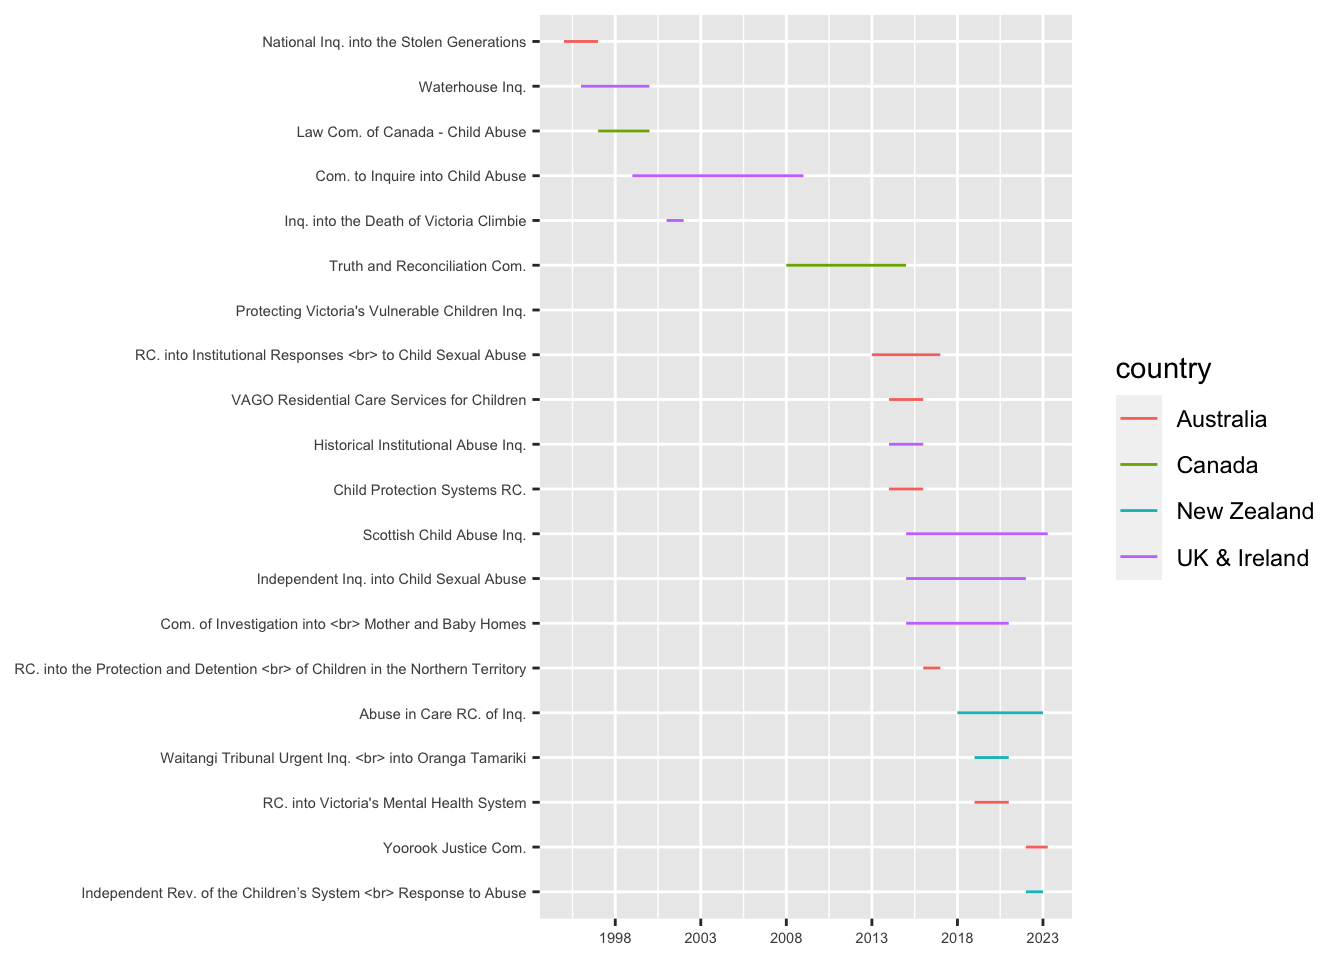
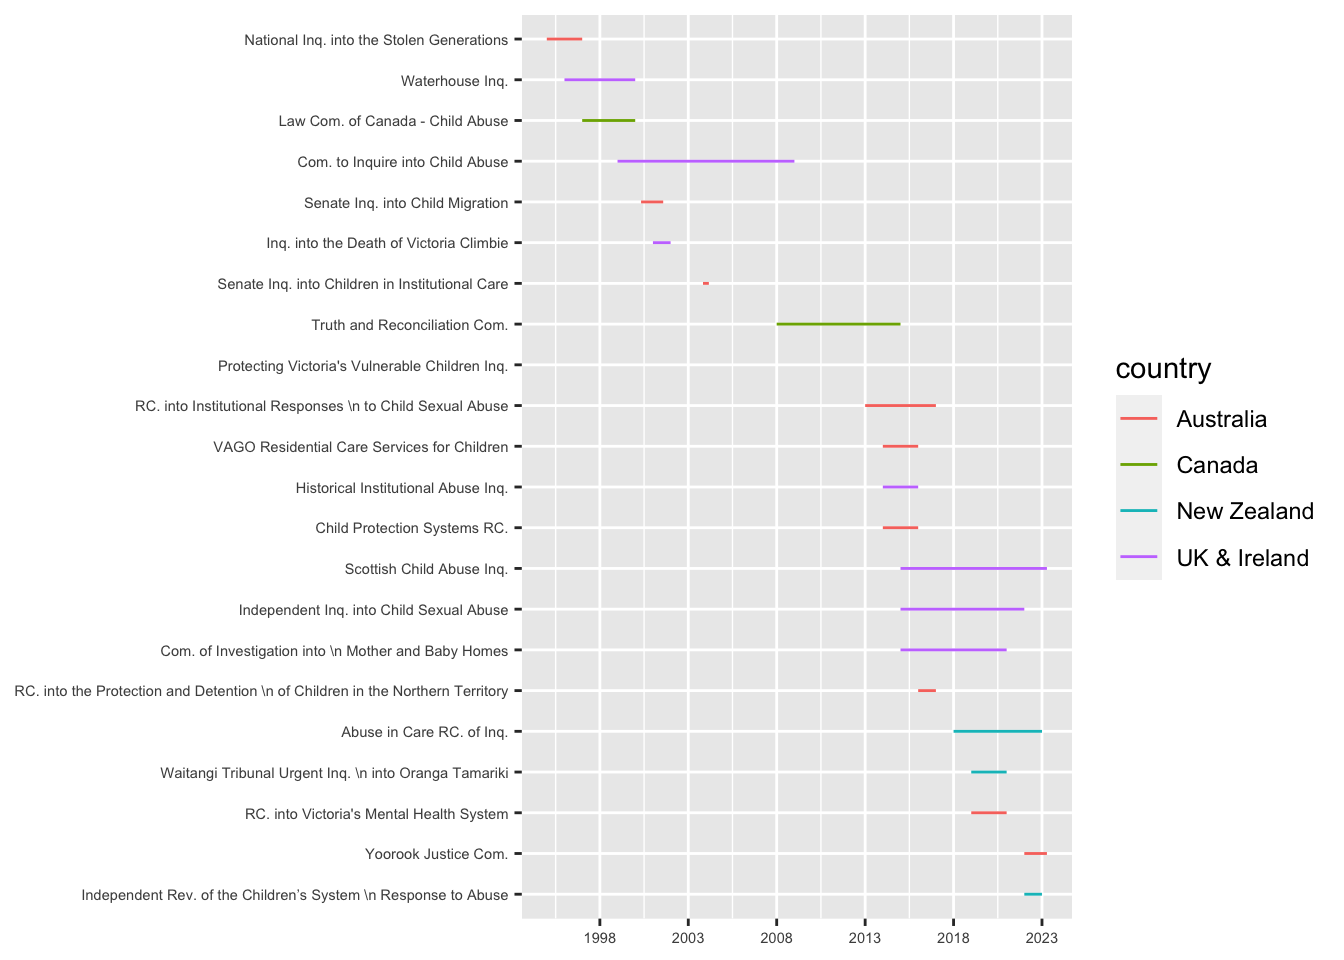
Splitting up timelines

diff --git a/commissionsviz.html b/commissionsviz.html
@@ -137,26 +137,77 @@ code span.wa { color: #60a0b0; font-weight: bold; font-style: italic; } /* Warni
 <div class="sourceCode cell-code" id="cb1"><pre class="sourceCode r code-with-copy"><code class="sourceCode r"><span id="cb1-1"><a href="#cb1-1" aria-hidden="true" tabindex="-1"></a>commissions <span class="ot">&lt;-</span> <span class="fu">read.csv</span>(<span class="st">"commissionsdatabaseggplot.csv"</span>, <span class="at">stringsAsFactors =</span> F)</span>
 <span id="cb1-2"><a href="#cb1-2" aria-hidden="true" tabindex="-1"></a>commissions<span class="sc">$</span>start <span class="ot">&lt;-</span> <span class="fu">as.Date</span>(commissions<span class="sc">$</span>start, <span class="at">format=</span><span class="st">"%d/%m/%Y"</span>)</span>
 <span id="cb1-3"><a href="#cb1-3" aria-hidden="true" tabindex="-1"></a>commissions<span class="sc">$</span>end <span class="ot">&lt;-</span> <span class="fu">as.Date</span>(commissions<span class="sc">$</span>end,<span class="at">format=</span><span class="st">"%d/%m/%Y"</span>)</span>
-<span id="cb1-4"><a href="#cb1-4" aria-hidden="true" tabindex="-1"></a></span>
-<span id="cb1-5"><a href="#cb1-5" aria-hidden="true" tabindex="-1"></a>p <span class="ot">&lt;-</span> <span class="fu">ggplot</span>(commissions) <span class="sc">+</span></span>
-<span id="cb1-6"><a href="#cb1-6" aria-hidden="true" tabindex="-1"></a>      <span class="fu">geom_linerange</span>(<span class="fu">aes</span>(<span class="at">y =</span> <span class="fu">reorder</span>(title,<span class="fu">desc</span>(start)), </span>
-<span id="cb1-7"><a href="#cb1-7" aria-hidden="true" tabindex="-1"></a>                         <span class="at">xmin =</span> start,</span>
-<span id="cb1-8"><a href="#cb1-8" aria-hidden="true" tabindex="-1"></a>                         <span class="at">xmax =</span> end,</span>
-<span id="cb1-9"><a href="#cb1-9" aria-hidden="true" tabindex="-1"></a>                         <span class="at">colour =</span> country)</span>
-<span id="cb1-10"><a href="#cb1-10" aria-hidden="true" tabindex="-1"></a>                     )<span class="sc">+</span></span>
-<span id="cb1-11"><a href="#cb1-11" aria-hidden="true" tabindex="-1"></a>      <span class="fu">labs</span>(<span class="at">y=</span><span class="cn">NULL</span>)<span class="sc">+</span></span>
-<span id="cb1-12"><a href="#cb1-12" aria-hidden="true" tabindex="-1"></a>      <span class="fu">scale_x_date</span>(<span class="at">date_breaks=</span><span class="st">"5 years"</span>,</span>
-<span id="cb1-13"><a href="#cb1-13" aria-hidden="true" tabindex="-1"></a>                   <span class="at">date_labels=</span><span class="st">"%Y"</span>,</span>
-<span id="cb1-14"><a href="#cb1-14" aria-hidden="true" tabindex="-1"></a>                   <span class="at">limits=</span><span class="fu">c</span>(<span class="fu">as.Date</span>(<span class="st">"1/1/1995"</span>,</span>
-<span id="cb1-15"><a href="#cb1-15" aria-hidden="true" tabindex="-1"></a>                                    <span class="at">format=</span><span class="st">"%d/%m/%Y"</span>),<span class="fu">as.Date</span>(<span class="st">"14/4/2023"</span>,</span>
-<span id="cb1-16"><a href="#cb1-16" aria-hidden="true" tabindex="-1"></a>                                    <span class="at">format=</span><span class="st">"%d/%m/%Y"</span>))</span>
-<span id="cb1-17"><a href="#cb1-17" aria-hidden="true" tabindex="-1"></a>                   )<span class="sc">+</span></span>
-<span id="cb1-18"><a href="#cb1-18" aria-hidden="true" tabindex="-1"></a>      <span class="fu">theme</span>(</span>
-<span id="cb1-19"><a href="#cb1-19" aria-hidden="true" tabindex="-1"></a>      <span class="at">axis.text =</span> <span class="fu">element_text</span>(<span class="at">size =</span> <span class="fu">rel</span>(<span class="fl">0.5</span>))</span>
-<span id="cb1-20"><a href="#cb1-20" aria-hidden="true" tabindex="-1"></a>      )</span>
-<span id="cb1-21"><a href="#cb1-21" aria-hidden="true" tabindex="-1"></a>p</span></code><button title="Copy to Clipboard" class="code-copy-button"><i class="bi"></i></button></pre></div>
+<span id="cb1-4"><a href="#cb1-4" aria-hidden="true" tabindex="-1"></a>comm_int <span class="ot">&lt;-</span> commissions <span class="sc">%&gt;%</span></span>
+<span id="cb1-5"><a href="#cb1-5" aria-hidden="true" tabindex="-1"></a>  <span class="fu">filter</span>(country<span class="sc">!=</span><span class="st">"Australia"</span>)</span>
+<span id="cb1-6"><a href="#cb1-6" aria-hidden="true" tabindex="-1"></a>comm_ausfed <span class="ot">&lt;-</span> commissions <span class="sc">%&gt;%</span></span>
+<span id="cb1-7"><a href="#cb1-7" aria-hidden="true" tabindex="-1"></a>  <span class="fu">filter</span>(country<span class="sc">==</span><span class="st">"Australia"</span>,Notes<span class="sc">==</span><span class="st">"Federal"</span>)</span>
+<span id="cb1-8"><a href="#cb1-8" aria-hidden="true" tabindex="-1"></a></span>
+<span id="cb1-9"><a href="#cb1-9" aria-hidden="true" tabindex="-1"></a>comm_ausst <span class="ot">&lt;-</span> commissions <span class="sc">%&gt;%</span></span>
+<span id="cb1-10"><a href="#cb1-10" aria-hidden="true" tabindex="-1"></a>  <span class="fu">filter</span>(Notes<span class="sc">!=</span><span class="st">"Federal"</span>,country<span class="sc">==</span><span class="st">"Australia"</span>)</span></code><button title="Copy to Clipboard" class="code-copy-button"><i class="bi"></i></button></pre></div>
+</div>
+<div class="cell">
+<div class="sourceCode cell-code" id="cb2"><pre class="sourceCode r code-with-copy"><code class="sourceCode r"><span id="cb2-1"><a href="#cb2-1" aria-hidden="true" tabindex="-1"></a>p_int <span class="ot">&lt;-</span> <span class="fu">ggplot</span>(comm_int) <span class="sc">+</span></span>
+<span id="cb2-2"><a href="#cb2-2" aria-hidden="true" tabindex="-1"></a>      <span class="fu">geom_linerange</span>(<span class="fu">aes</span>(<span class="at">y =</span> <span class="fu">reorder</span>(title,<span class="fu">desc</span>(start)), </span>
+<span id="cb2-3"><a href="#cb2-3" aria-hidden="true" tabindex="-1"></a>                         <span class="at">xmin =</span> start,</span>
+<span id="cb2-4"><a href="#cb2-4" aria-hidden="true" tabindex="-1"></a>                         <span class="at">xmax =</span> end,</span>
+<span id="cb2-5"><a href="#cb2-5" aria-hidden="true" tabindex="-1"></a>                         <span class="at">colour =</span> country)</span>
+<span id="cb2-6"><a href="#cb2-6" aria-hidden="true" tabindex="-1"></a>                     )<span class="sc">+</span></span>
+<span id="cb2-7"><a href="#cb2-7" aria-hidden="true" tabindex="-1"></a>      <span class="fu">labs</span>(<span class="at">y=</span><span class="cn">NULL</span>)<span class="sc">+</span></span>
+<span id="cb2-8"><a href="#cb2-8" aria-hidden="true" tabindex="-1"></a>      <span class="fu">scale_x_date</span>(<span class="at">date_breaks=</span><span class="st">"5 years"</span>,</span>
+<span id="cb2-9"><a href="#cb2-9" aria-hidden="true" tabindex="-1"></a>                   <span class="at">date_labels=</span><span class="st">"%Y"</span>,</span>
+<span id="cb2-10"><a href="#cb2-10" aria-hidden="true" tabindex="-1"></a>                   <span class="at">limits=</span><span class="fu">c</span>(<span class="fu">as.Date</span>(<span class="st">"1/1/1995"</span>,</span>
+<span id="cb2-11"><a href="#cb2-11" aria-hidden="true" tabindex="-1"></a>                                    <span class="at">format=</span><span class="st">"%d/%m/%Y"</span>),<span class="fu">as.Date</span>(<span class="st">"14/4/2023"</span>,</span>
+<span id="cb2-12"><a href="#cb2-12" aria-hidden="true" tabindex="-1"></a>                                    <span class="at">format=</span><span class="st">"%d/%m/%Y"</span>))</span>
+<span id="cb2-13"><a href="#cb2-13" aria-hidden="true" tabindex="-1"></a>                   )<span class="sc">+</span></span>
+<span id="cb2-14"><a href="#cb2-14" aria-hidden="true" tabindex="-1"></a>      <span class="fu">theme</span>(</span>
+<span id="cb2-15"><a href="#cb2-15" aria-hidden="true" tabindex="-1"></a>      <span class="at">axis.text =</span> <span class="fu">element_text</span>(<span class="at">size =</span> <span class="fu">rel</span>(<span class="fl">0.5</span>))</span>
+<span id="cb2-16"><a href="#cb2-16" aria-hidden="true" tabindex="-1"></a>      )</span>
+<span id="cb2-17"><a href="#cb2-17" aria-hidden="true" tabindex="-1"></a>p_int</span></code><button title="Copy to Clipboard" class="code-copy-button"><i class="bi"></i></button></pre></div>
 <div class="cell-output-display">
-<p><img src="commissionsviz_files/figure-html/unnamed-chunk-2-1.png" class="img-fluid" width="672"></p>
+<p><img src="commissionsviz_files/figure-html/unnamed-chunk-3-1.png" class="img-fluid" width="672"></p>
+</div>
+</div>
+<div class="cell">
+<div class="sourceCode cell-code" id="cb3"><pre class="sourceCode r code-with-copy"><code class="sourceCode r"><span id="cb3-1"><a href="#cb3-1" aria-hidden="true" tabindex="-1"></a>p_ausfed <span class="ot">&lt;-</span> <span class="fu">ggplot</span>(comm_ausfed) <span class="sc">+</span></span>
+<span id="cb3-2"><a href="#cb3-2" aria-hidden="true" tabindex="-1"></a>      <span class="fu">geom_linerange</span>(<span class="fu">aes</span>(<span class="at">y =</span> <span class="fu">reorder</span>(title,<span class="fu">desc</span>(start)), </span>
+<span id="cb3-3"><a href="#cb3-3" aria-hidden="true" tabindex="-1"></a>                         <span class="at">xmin =</span> start,</span>
+<span id="cb3-4"><a href="#cb3-4" aria-hidden="true" tabindex="-1"></a>                         <span class="at">xmax =</span> end)</span>
+<span id="cb3-5"><a href="#cb3-5" aria-hidden="true" tabindex="-1"></a>                     )<span class="sc">+</span></span>
+<span id="cb3-6"><a href="#cb3-6" aria-hidden="true" tabindex="-1"></a>      <span class="fu">labs</span>(<span class="at">y=</span><span class="cn">NULL</span>)<span class="sc">+</span></span>
+<span id="cb3-7"><a href="#cb3-7" aria-hidden="true" tabindex="-1"></a>      <span class="fu">scale_x_date</span>(<span class="at">date_breaks=</span><span class="st">"5 years"</span>,</span>
+<span id="cb3-8"><a href="#cb3-8" aria-hidden="true" tabindex="-1"></a>                   <span class="at">date_labels=</span><span class="st">"%Y"</span>,</span>
+<span id="cb3-9"><a href="#cb3-9" aria-hidden="true" tabindex="-1"></a>                   <span class="at">limits=</span><span class="fu">c</span>(<span class="fu">as.Date</span>(<span class="st">"1/1/1995"</span>,</span>
+<span id="cb3-10"><a href="#cb3-10" aria-hidden="true" tabindex="-1"></a>                                    <span class="at">format=</span><span class="st">"%d/%m/%Y"</span>),<span class="fu">as.Date</span>(<span class="st">"01/01/2018"</span>,</span>
+<span id="cb3-11"><a href="#cb3-11" aria-hidden="true" tabindex="-1"></a>                                    <span class="at">format=</span><span class="st">"%d/%m/%Y"</span>))</span>
+<span id="cb3-12"><a href="#cb3-12" aria-hidden="true" tabindex="-1"></a>                   )<span class="sc">+</span></span>
+<span id="cb3-13"><a href="#cb3-13" aria-hidden="true" tabindex="-1"></a>      <span class="fu">theme</span>(</span>
+<span id="cb3-14"><a href="#cb3-14" aria-hidden="true" tabindex="-1"></a>      <span class="at">axis.text =</span> <span class="fu">element_text</span>(<span class="at">size =</span> <span class="fu">rel</span>(<span class="fl">0.5</span>))</span>
+<span id="cb3-15"><a href="#cb3-15" aria-hidden="true" tabindex="-1"></a>      )</span>
+<span id="cb3-16"><a href="#cb3-16" aria-hidden="true" tabindex="-1"></a>p_ausfed</span></code><button title="Copy to Clipboard" class="code-copy-button"><i class="bi"></i></button></pre></div>
+<div class="cell-output-display">
+<p><img src="commissionsviz_files/figure-html/unnamed-chunk-4-1.png" class="img-fluid" width="672"></p>
+</div>
+</div>
+<div class="cell">
+<div class="sourceCode cell-code" id="cb4"><pre class="sourceCode r code-with-copy"><code class="sourceCode r"><span id="cb4-1"><a href="#cb4-1" aria-hidden="true" tabindex="-1"></a>p_ausst <span class="ot">&lt;-</span> <span class="fu">ggplot</span>(comm_ausst) <span class="sc">+</span></span>
+<span id="cb4-2"><a href="#cb4-2" aria-hidden="true" tabindex="-1"></a>      <span class="fu">geom_linerange</span>(<span class="fu">aes</span>(<span class="at">y =</span> <span class="fu">reorder</span>(title,<span class="fu">desc</span>(start)), </span>
+<span id="cb4-3"><a href="#cb4-3" aria-hidden="true" tabindex="-1"></a>                         <span class="at">xmin =</span> start,</span>
+<span id="cb4-4"><a href="#cb4-4" aria-hidden="true" tabindex="-1"></a>                         <span class="at">xmax =</span> end,</span>
+<span id="cb4-5"><a href="#cb4-5" aria-hidden="true" tabindex="-1"></a>                         <span class="at">colour =</span> Notes)</span>
+<span id="cb4-6"><a href="#cb4-6" aria-hidden="true" tabindex="-1"></a>                     )<span class="sc">+</span></span>
+<span id="cb4-7"><a href="#cb4-7" aria-hidden="true" tabindex="-1"></a>      <span class="fu">labs</span>(<span class="at">y=</span><span class="cn">NULL</span>)<span class="sc">+</span></span>
+<span id="cb4-8"><a href="#cb4-8" aria-hidden="true" tabindex="-1"></a>      <span class="fu">scale_x_date</span>(<span class="at">date_breaks=</span><span class="st">"5 years"</span>,</span>
+<span id="cb4-9"><a href="#cb4-9" aria-hidden="true" tabindex="-1"></a>                   <span class="at">date_labels=</span><span class="st">"%Y"</span>,</span>
+<span id="cb4-10"><a href="#cb4-10" aria-hidden="true" tabindex="-1"></a>                   <span class="at">limits=</span><span class="fu">c</span>(<span class="fu">as.Date</span>(<span class="st">"1/1/1998"</span>,</span>
+<span id="cb4-11"><a href="#cb4-11" aria-hidden="true" tabindex="-1"></a>                                    <span class="at">format=</span><span class="st">"%d/%m/%Y"</span>),<span class="fu">as.Date</span>(<span class="st">"14/4/2023"</span>,</span>
+<span id="cb4-12"><a href="#cb4-12" aria-hidden="true" tabindex="-1"></a>                                    <span class="at">format=</span><span class="st">"%d/%m/%Y"</span>))</span>
+<span id="cb4-13"><a href="#cb4-13" aria-hidden="true" tabindex="-1"></a>                   )<span class="sc">+</span></span>
+<span id="cb4-14"><a href="#cb4-14" aria-hidden="true" tabindex="-1"></a>      <span class="fu">theme</span>(</span>
+<span id="cb4-15"><a href="#cb4-15" aria-hidden="true" tabindex="-1"></a>      <span class="at">axis.text =</span> <span class="fu">element_text</span>(<span class="at">size =</span> <span class="fu">rel</span>(<span class="fl">0.5</span>))</span>
+<span id="cb4-16"><a href="#cb4-16" aria-hidden="true" tabindex="-1"></a>      )</span>
+<span id="cb4-17"><a href="#cb4-17" aria-hidden="true" tabindex="-1"></a>p_ausst</span></code><button title="Copy to Clipboard" class="code-copy-button"><i class="bi"></i></button></pre></div>
+<div class="cell-output-display">
+<p><img src="commissionsviz_files/figure-html/unnamed-chunk-5-1.png" class="img-fluid" width="672"></p>
 </div>
 </div>
 </section>
